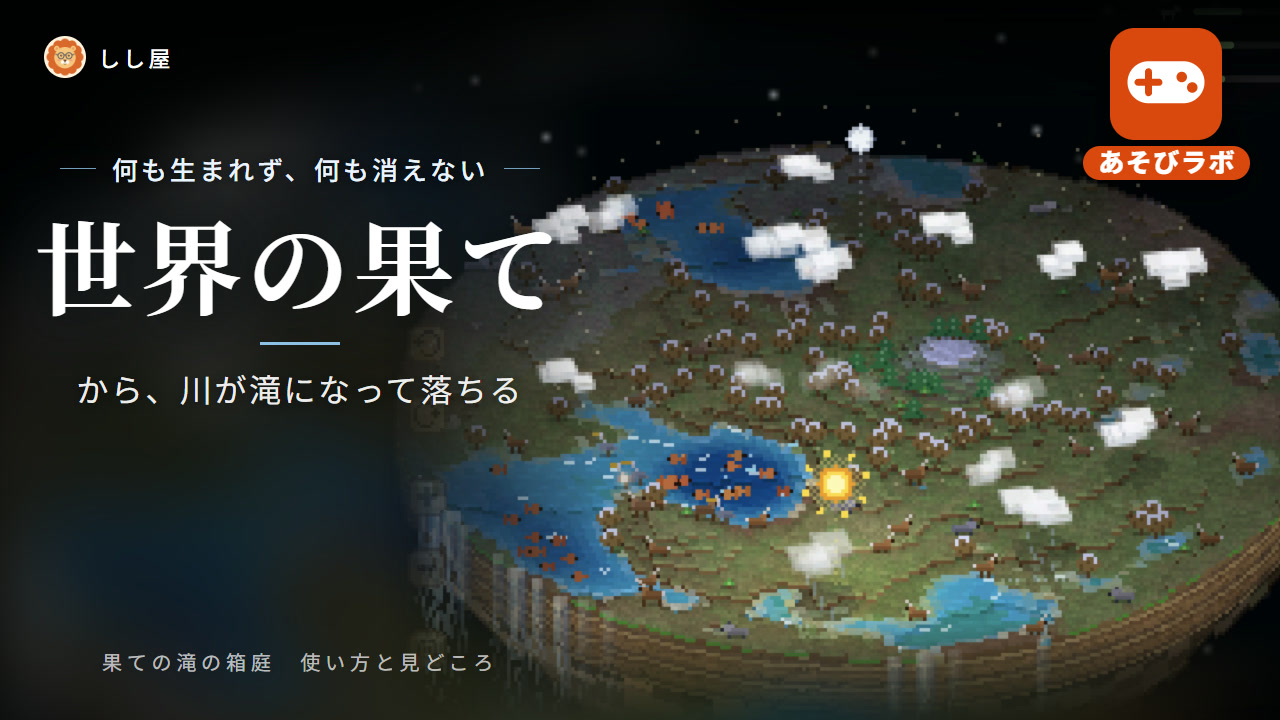
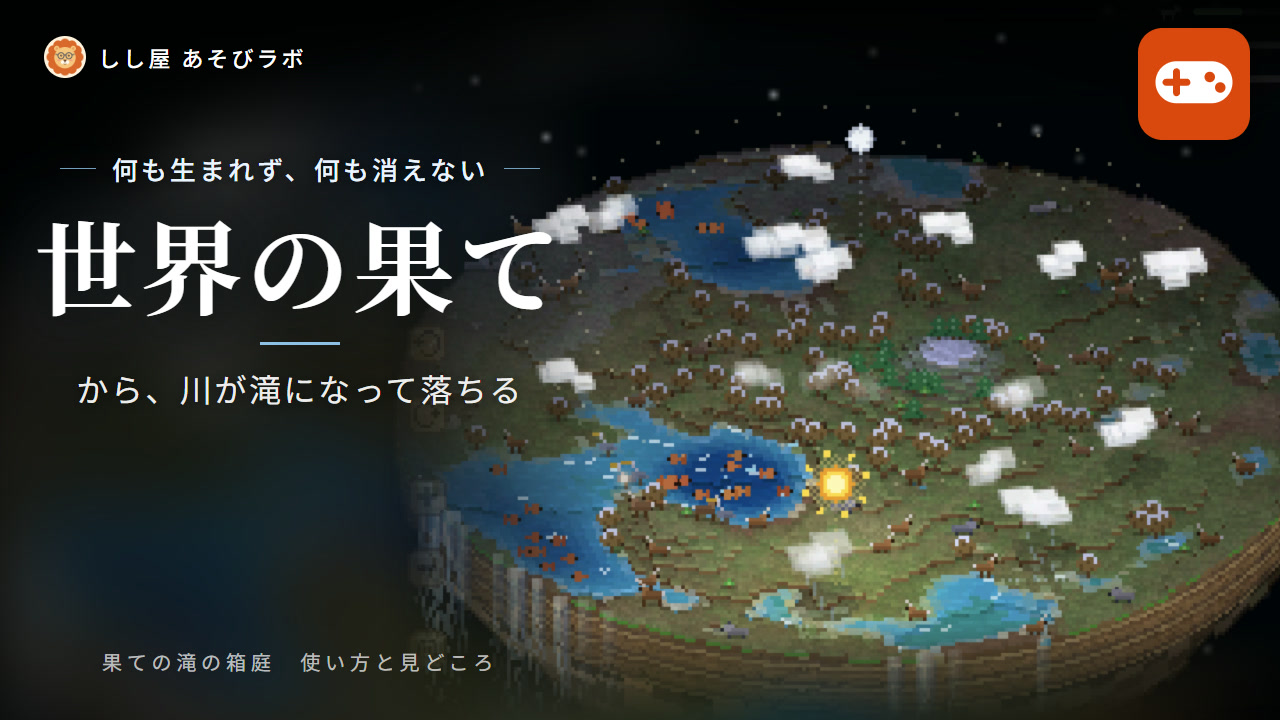
紹介動画: サムネイルを、左上「しし屋 あそびラボ」・右上はアイコンだけに（ユーザーが見くらべて決めた。ASOBI_BADGE）。恐竜かけっこ牧場・果ての滝の箱庭の4枚を作りなおした

Changed region(s): [[0.8438, 0.0306, 1.0, 0.275], [0.125, 0.0611, 0.25, 0.0917]]

diff --git a/_dev/promo/short-thumbs.js b/_dev/promo/short-thumbs.js
@@ -3,6 +3,8 @@
 // t: ショートの mp4 から取るコマの秒。focus: 絵の中で見せたい点（0〜1、左上が 0,0）、zoom: 寄せる倍率（1 = 横いっぱい）
 // kicker: 上の小さな一言、big: いちばん大きな言葉（数字や驚き）、sub: 下の言葉。c1・c2: big の色（上から下へ）
 // 数字は動画・ゲームで出している値だけ（想像で盛らない）。wname: 説明動画の下の名前の後ろ（省くと「使い方と見どころ」。あそびラボのゲームは「あそびかたと見どころ」）
+// 札の形: 'pill'（右上にアイコン＋あそびラボ）か 'icon'（左上に しし屋 あそびラボ、右上はアイコンだけ）。short-thumb.html の badge
+window.ASOBI_BADGE = 'icon';   // 2026-10-19 ユーザーが見くらべて 'icon' に決めた
 window.SHORT_THUMBS = {
   'edge-falls':    { name: '果ての滝の箱庭', t: 3, focus: [0.5, 0.41], zoom: 1.3, wfocus: [0.47, 0.42], wzoom: 0.75, wx: 830, kicker: '何も生まれず、何も消えない', big: '世界の果て', sub: 'から、川が滝になって落ちる', c1: '#eaf4ff', c2: '#8fc3e8' },
   'dino-race':     { name: '恐竜かけっこ牧場', wname: 'あそびかたと見どころ', t: 32.2, focus: [0.68, 0.655], zoom: 2.6, wfocus: [0.6, 0.62], wzoom: 1.25, wx: 900, kicker: '恐竜を育てて、人の世界記録に挑む', big: '9.58秒', sub: 'より速い恐竜を育てろ！', c1: '#fff1c9', c2: '#f08a5a' },

diff --git a/_dev/promo/short-thumb.html b/_dev/promo/short-thumb.html
@@ -76,6 +76,9 @@ const q = new URLSearchParams(location.search);
 const app = q.get('app') || 'evolution', wide = q.has('wide');
 if (wide) { document.documentElement.classList.add('wide'); document.body.classList.add('wide'); }
 const c = SHORT_THUMBS[app];
+// 札の形（2026-10-19 見くらべ）: 'pill' = 左上「しし屋」・右上にアイコン＋「あそびラボ」、'icon' = 左上「しし屋 あそびラボ」（まなびラボと同じ形）・右上はアイコンだけ
+const badge = q.get('badge') || window.ASOBI_BADGE || 'pill';
+if (badge === 'icon') { document.querySelector('#asobi b').remove(); document.getElementById('brand').lastChild.textContent = 'しし屋 あそびラボ'; }
 const root = document.documentElement.style;
 root.setProperty('--c1', c.c1); root.setProperty('--c2', c.c2); root.setProperty('--glow', c.c2 + '40');
 document.getElementById('kicker').textContent = c.kicker;

diff --git a/_dev/promo/README.md b/_dev/promo/README.md
@@ -29,7 +29,7 @@
 - 録画（サーバー `games` を起動して、リポジトリのルートで）:
   `powershell -NoProfile -ExecutionPolicy Bypass -File _dev/tools/record-promo.ps1 -Script dino-race -Short`
   `powershell -NoProfile -ExecutionPolicy Bypass -File _dev/tools/record-promo.ps1 -Script dino-race-guide`
-- サムネイル: `short-thumbs.js` の `dino-race`（ゴールの線をこえるラプトル 4号に「9.58秒 より速い恐竜を育てろ！」）。説明動画の名前は `wname`「あそびかたと見どころ」。右上にあそびラボの札（入口のファビコンと同じオレンジの角丸＋白いゲームのコントローラー、下に「あそびラボ」。2026-10-19 ユーザー「人目であそびラボっぽいとわかる」「とおめでもゲーム系だとわかりやすい」）。左上はチャンネルの「しし屋」だけ。札は `short-thumb.html` の `#asobi` なので、あそびラボのサムネイル全部に付く（果ての滝の箱庭は作りなおしたら付く）。ショートも横長と同じ割合で右上に（アイコンの幅に対して右 0.27・上 0.25）。字は Noto Sans JP のインクをはかって、目で見てまんなかに。
+- サムネイル: `short-thumbs.js` の `dino-race`（ゴールの線をこえるラプトル 4号に「9.58秒 より速い恐竜を育てろ！」）。説明動画の名前は `wname`「あそびかたと見どころ」。右上にあそびラボのアイコン（入口のファビコンと同じオレンジの角丸＋白いゲームのコントローラー。はじめは下に「あそびラボ」の札も付けたが、見くらべて、左上をまなびラボと同じ「しし屋 あそびラボ」・右上はアイコンだけにした＝`short-thumbs.js` の `ASOBI_BADGE: 'icon'`。2026-10-19 ユーザー「人目であそびラボっぽいとわかる」「とおめでもゲーム系だとわかりやすい」）。札は `short-thumb.html` の `#asobi` なので、あそびラボのサムネイル全部に付く（果ての滝の箱庭は作りなおしたら付く）。ショートも横長と同じ割合で右上に（アイコンの幅に対して右 0.27・上 0.25）。字は Noto Sans JP のインクをはかって、目で見てまんなかに。
 - YouTube の下書き: `dino-race-short.upload.json`・`dino-race-guide.upload.json`（説明欄に「しし屋 まなびラボの姉妹サイト」とまなびラボへのリンク）。**予約 2026-10-23（木）説明動画 19:00・ショート 19:05**（ユーザーが決めた。12本の締めの日の空き枠、20:00〜20:15 はさけた）。上げるのはユーザーの GO のあと。
 
 ## 果ての滝の箱庭（2026-10-13）
